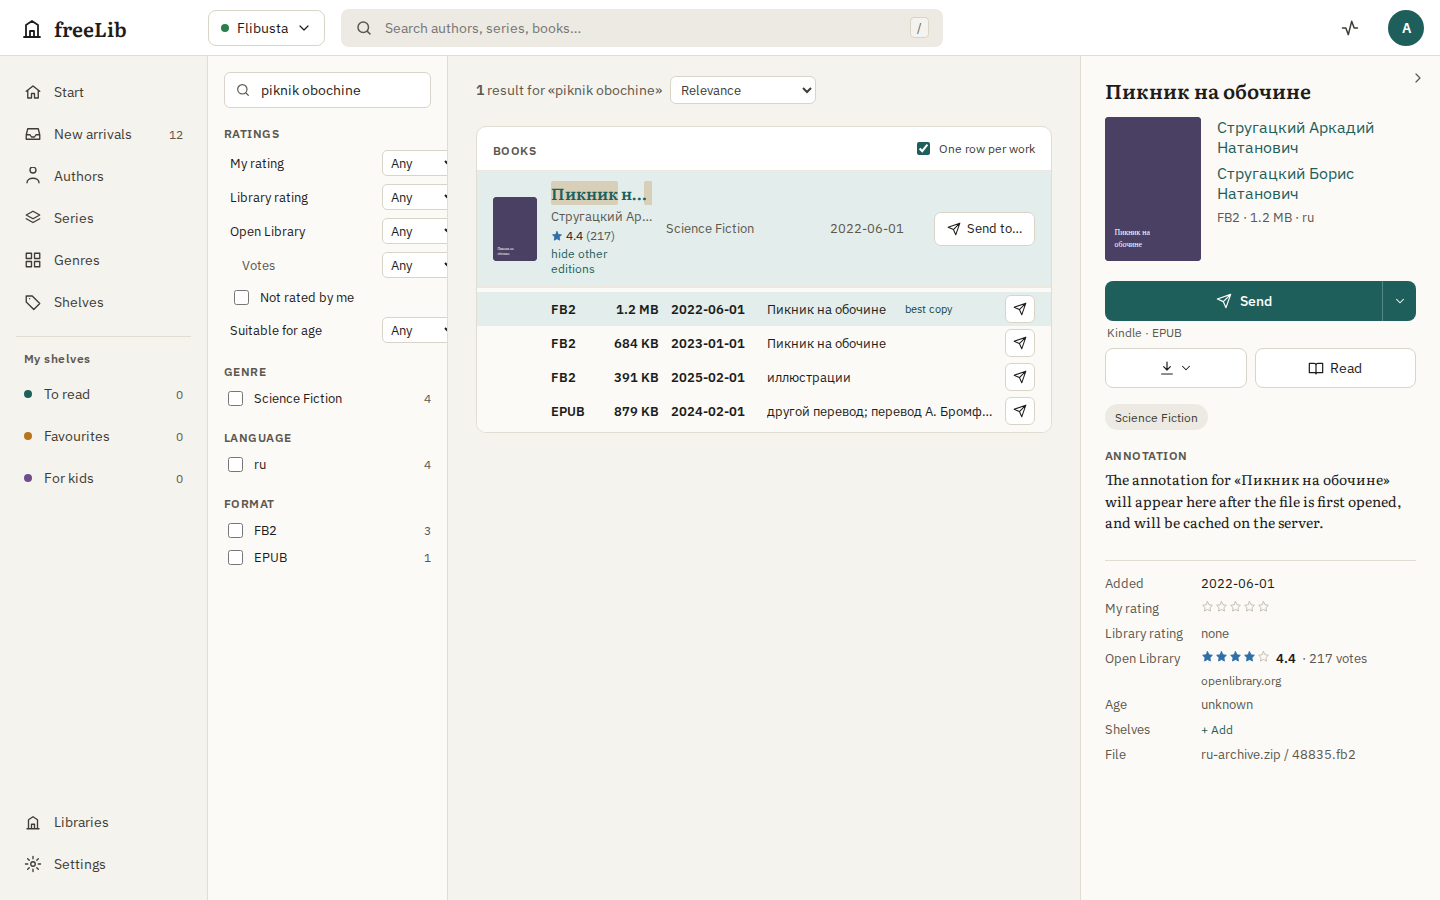
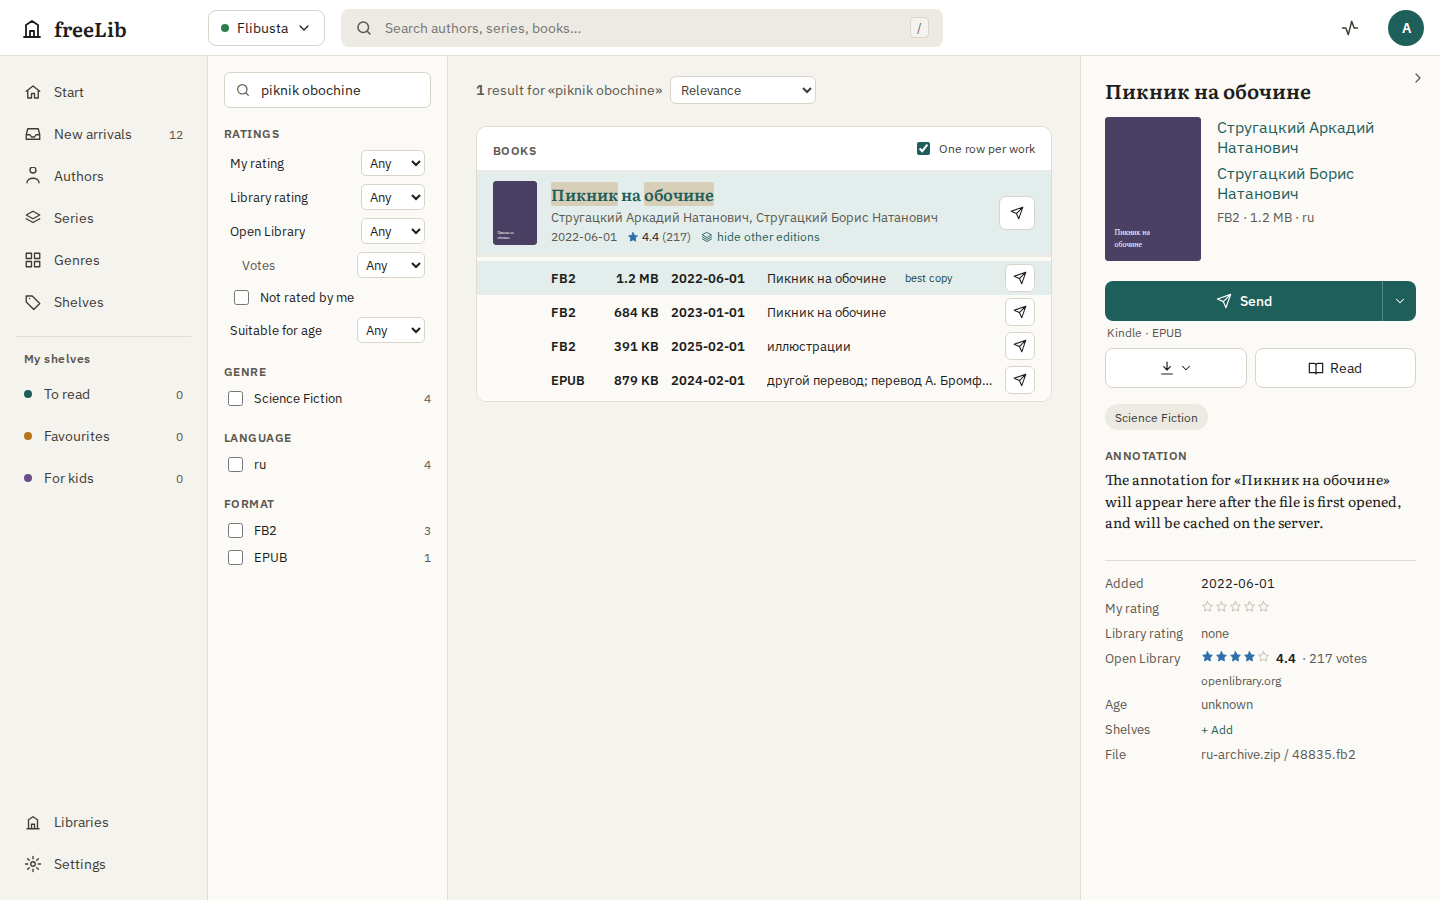
Search: show corrected results, responsive result rows, fitting rating selects
- a correction replaces the results when the query as typed finds < 3
  matches or no author/series that the corrected query finds;
  "Showing results for азимов · Search instead for азимв" (exact=1 skips
  the correction); the typeahead lists the corrected results
- search result rows: title and authors get the space (2 lines),
  genre / date / ratings / editions on one meta line, icon-only send and
  no genre when the results column is narrow (container query)
- rating filter selects fit the facet column
- screenshots regenerated

Claude-Session: https://claude.ai/code/session_01CHpYdZBU1bJ65FXV23e9ED

Changed region(s): [[0.3438, 0.1867, 0.7188, 0.4667], [0.25, 0.1556, 0.3125, 0.3111], [0.25, 0.3422, 0.2812, 0.3733]]

diff --git a/web/src/lib/routes/SearchPage.svelte b/web/src/lib/routes/SearchPage.svelte
@@ -19,7 +19,7 @@
     emptyRatingFilters, ratingFilterCount, ratingParams, type RatingFilters as RatingFiltersT, type RatingSortKey,
   } from '../utils/ratings';
 
-  let { lib, q }: { lib: number; q: string } = $props();
+  let { lib, q, exact = false }: { lib: number; q: string; exact?: boolean } = $props();
 
   let query = $state('');
   let result = $state<SearchResponse | null>(null);
@@ -58,6 +58,7 @@
       lang: [...langFilter].join(',') || undefined,
       ext: [...extFilter].join(',') || undefined,
       group: groupEditions,
+      exact,
       ...ratingParams(ratingFilters, sortKey === 'relevance' ? null : sortKey),
     }).then((r) => { if (!cancelled) result = r; })
       .catch((e) => { if (!cancelled) error = errorText(e); })
@@ -101,24 +102,22 @@
     <CoverThumb {lib} bookId={b.id} title={b.title} />
     <div class="info">
       <a href="/l/{lib}/book/{b.id}" class="title" onclick={(e) => { e.preventDefault(); pick(b); }}><Hl text={b.title} words={hl} /></a>
-      <span class="muted ellipsis"><Hl text={authorsLine(b)} words={hl} />{#if b.series}{' · '}<Hl text={`${b.series.name}${b.serno ? ` #${b.serno}` : ''}`} words={hl} />{/if}</span>
-      {#if b.libRating || b.extRating || b.rating || (b.kidsAge !== null && b.kidsAge !== undefined)}
-        <span class="rates">
-          {#if b.rating}<span class="my" title={t('ratings.myTooltip')}>★ {b.rating}</span>{/if}
-          {#if b.libRating}<span class="lib" title={t('ratings.libTooltip', { n: b.libRating })}>{t('ratings.libShort')} {b.libRating}/5</span>{/if}
-          <ExtRating value={b.extRating} />
-          <KidsBadge age={b.kidsAge} />
-        </span>
-      {/if}
-      {#if b.editions}
-        <button type="button" class="editions" data-testid="editions-toggle" aria-expanded={expanded.has(b.id)} onclick={() => (expanded = toggleSet(expanded, b.id))}>
-          {expanded.has(b.id) ? t('search.hideEditions') : tn('editions.countBest', b.editions.count)}
-        </button>
-      {/if}
+      <span class="muted byline"><Hl text={authorsLine(b)} words={hl} />{#if b.series}{' · '}<Hl text={`${b.series.name}${b.serno ? ` #${b.serno}` : ''}`} words={hl} />{/if}</span>
+      <span class="meta">
+        {#if genreLine(b)}<span class="genre">{genreLine(b)}</span>{/if}
+        <span class="date">{formatDate(b.date, i18nState.lang)}</span>
+        {#if b.rating}<span class="my" title={t('ratings.myTooltip')}>★ {b.rating}</span>{/if}
+        {#if b.libRating}<span class="lib" title={t('ratings.libTooltip', { n: b.libRating })}>{t('ratings.libShort')} {b.libRating}/5</span>{/if}
+        <ExtRating value={b.extRating} />
+        <KidsBadge age={b.kidsAge} />
+        {#if b.editions}
+          <button type="button" class="editions" data-testid="editions-toggle" aria-expanded={expanded.has(b.id)} onclick={() => (expanded = toggleSet(expanded, b.id))}>
+            <Icon name="layers" size={12} />{expanded.has(b.id) ? t('search.hideEditions') : tn('editions.countBest', b.editions.count)}
+          </button>
+        {/if}
+      </span>
     </div>
-    <span class="muted genre">{genreLine(b)}</span>
-    <span class="muted date-col">{formatDate(b.date, i18nState.lang)}</span>
-    <button type="button" class="send-btn" aria-label={t('selection.sendTo')} onclick={() => (send = { ids: [b.id] })}><Icon name="send" size={14} /><span>{t('selection.sendTo')}</span></button>
+    <button type="button" class="send-btn" aria-label={t('selection.sendTo')} title={t('selection.sendTo')} onclick={() => (send = { ids: [b.id] })}><Icon name="send" size={14} /><span>{t('selection.sendTo')}</span></button>
   </div>
 {/snippet}
 
@@ -213,7 +212,7 @@
 
       {#if result.corrected}
         <p class="dym" data-testid="search-corrected">
-          {t('search.correctedTo')} <b>{result.corrected}</b>. {t('search.noneFor')} «{q}».
+          {t('search.correctedTo')} <b>{result.corrected}</b> · {t('search.insteadFor')} <a href="{searchFor(q)}&exact=1" data-link data-testid="search-exact">{q}</a>
         </p>
       {:else if result.didYouMean}
         <p class="dym" data-testid="did-you-mean">
@@ -301,8 +300,12 @@
   .summary { display: flex; align-items: center; gap: 8px; font-size: 14px; color: var(--muted); flex-wrap: wrap; }
   .summary.stale { opacity: .6; }
   .sort-sel select { height: 28px; padding: 0 6px; border: 1px solid var(--border); border-radius: 6px; background: var(--surface); color: var(--muted-2); font: inherit; font-size: 13px; }
-  .rates { display: inline-flex; align-items: center; gap: 8px; font-size: 12px; color: var(--muted); }
-  .rates .my { color: var(--amber); }
+  .meta { display: flex; align-items: center; flex-wrap: wrap; gap: 4px 10px; font-size: 12px; color: var(--muted); }
+  .meta .my { color: var(--amber); }
+  .meta .date { font-variant-numeric: tabular-nums; }
+  .meta .genre { overflow: hidden; text-overflow: ellipsis; white-space: nowrap; max-width: 220px; }
+  .byline { display: -webkit-box; -webkit-line-clamp: 2; line-clamp: 2; -webkit-box-orient: vertical; overflow: hidden; }
+  .facets :global(.rf) { min-width: 0; }
   .chip { display: inline-flex; align-items: center; gap: 6px; height: 26px; padding: 0 10px; border-radius: 13px; background: var(--accent-soft); color: var(--accent-soft-ink); font-size: 12px; border: none; }
   h2 { margin: 0 0 10px; font-size: 12px; font-weight: 600; color: var(--muted); letter-spacing: .04em; display: flex; gap: 10px; align-items: baseline; }
   .cap { font-weight: 400; letter-spacing: 0; }
@@ -314,31 +317,31 @@
   .ellipsis { overflow: hidden; text-overflow: ellipsis; white-space: nowrap; }
   .books-section { background: var(--surface); border: 1px solid var(--line); border-radius: 10px; overflow: hidden; flex-shrink: 0; }
   .books-section h2 { margin: 0; padding: 12px 16px; border-bottom: 1px solid var(--line-soft); }
-  .res-row { display: grid; grid-template-columns: 44px minmax(0,1fr) minmax(0, 150px) 90px auto; align-items: center; gap: 14px; padding: 10px 16px; border-bottom: 1px solid var(--line-soft); }
+  .res-row { display: grid; grid-template-columns: 44px minmax(0,1fr) auto; align-items: center; gap: 14px; padding: 10px 16px; border-bottom: 1px solid var(--line-soft); }
   .res-row.selected { background: var(--accent-soft); }
   .res-row:last-child { border-bottom: none; }
   .info { display: flex; flex-direction: column; gap: 3px; min-width: 0; align-items: flex-start; }
   .info > * { max-width: 100%; }
-  .title { font-family: var(--font-display); font-size: 16px; font-weight: 600; color: var(--ink); text-decoration: none; overflow: hidden; text-overflow: ellipsis; white-space: nowrap; }
+  .title { font-family: var(--font-display); font-size: 16px; font-weight: 600; color: var(--ink); text-decoration: none; overflow: hidden; display: -webkit-box; -webkit-line-clamp: 2; line-clamp: 2; -webkit-box-orient: vertical; overflow-wrap: anywhere; }
   .title:hover { color: var(--accent); }
-  .editions { all: unset; font-size: 12px; color: var(--accent); cursor: pointer; }
+  .editions { all: unset; display: inline-flex; align-items: center; gap: 4px; font-size: 12px; color: var(--accent); cursor: pointer; white-space: nowrap; }
   .dym { margin: 0; font-size: 15px; color: var(--ink); }
   .dym a { font-weight: 600; }
   .group-toggle { margin-left: auto; display: inline-flex; align-items: center; gap: 6px; font-weight: 400; letter-spacing: 0; font-size: 12px; color: var(--muted-2); text-transform: none; }
   .group-toggle input { accent-color: var(--accent); }
   .editions:hover { text-decoration: underline; }
   .editions:focus-visible { outline: 2px solid var(--focus); }
-  .genre { overflow: hidden; text-overflow: ellipsis; white-space: nowrap; }
-  .date-col { font-variant-numeric: tabular-nums; }
   .send-btn { justify-self: end; display: inline-flex; align-items: center; gap: 6px; height: 34px; padding: 0 12px; border-radius: 7px; border: 1px solid var(--border); background: var(--surface); color: var(--ink); font-size: 13px; white-space: nowrap; flex-shrink: 0; }
   .send-btn:hover { background: var(--surface-hover); }
   .send-btn :global(svg) { flex-shrink: 0; }
   .badge { min-width: 16px; height: 16px; padding: 0 4px; border-radius: 8px; background: var(--accent); color: #fff; font-size: 11px; display: inline-flex; align-items: center; justify-content: center; }
 
-  @media (max-width: 1280px) {
-    .res-row { grid-template-columns: 44px minmax(0,1fr) 90px auto; }
-    .res-row .genre { display: none; }
+  /* the results column narrows with the details pane open: icon-only send, no genre */
+  .results { container-type: inline-size; }
+  @container (max-width: 720px) {
+    .send-btn { padding: 0 10px; }
     .send-btn span { display: none; }
+    .meta .genre { display: none; }
   }
   @media (max-width: 900px) {
     .search-page { flex-direction: column; overflow-y: auto; overflow-x: hidden; }
@@ -350,6 +353,5 @@
     .results { padding: 14px 12px 24px; gap: 16px; overflow: visible; }
     .series-grid { grid-template-columns: 1fr; }
     .res-row { grid-template-columns: 40px minmax(0,1fr) auto; gap: 10px; padding: 10px 12px; }
-    .res-row .genre, .res-row .date-col { display: none; }
   }
 </style>

diff --git a/web/src/lib/components/GlobalSearch.svelte b/web/src/lib/components/GlobalSearch.svelte
@@ -33,8 +33,8 @@
   const items = $derived.by<Item[]>(() => {
     if (!result) return [];
     const out: Item[] = [];
-    const fix = result.corrected ?? result.didYouMean;
-    if (fix) out.push({ group: 'fix', href: `/l/${lib}/search?q=${encodeURIComponent(fix)}`, label: fix });
+    // corrected results are listed below; only a mere suggestion gets its own row
+    if (result.didYouMean) out.push({ group: 'fix', href: `/l/${lib}/search?q=${encodeURIComponent(result.didYouMean)}`, label: result.didYouMean });
     for (const a of result.authors.slice(0, 4)) out.push({ group: 'authors', href: `/l/${lib}/authors/${a.id}`, label: a.name, n: String(a.count) });
     for (const s of result.series.slice(0, 3)) out.push({ group: 'series', href: `/l/${lib}/series/${s.id}`, label: s.name, sub: s.authors, n: String(s.count) });
     for (const b of result.books.slice(0, 5)) {
@@ -83,7 +83,7 @@
 
   const groupLabel: Record<string, string> = $derived({
     authors: t('search.authors'), series: t('search.series'), books: t('search.books'),
-    fix: result?.corrected ? t('search.showingFor') : t('search.didYouMeanCaps'),
+    fix: t('search.didYouMeanCaps'),
   });
   const hl = $derived(new Set(result?.highlight ?? []));
 </script>
@@ -110,6 +110,7 @@
   </label>
   {#if open && query.trim().length >= 2 && result}
     <div class="dropdown" id="global-search-list" role="listbox">
+      {#if result.corrected}<div class="group-label corrected" data-testid="typeahead-corrected">{t('search.correctedTo')} <b>{result.corrected}</b></div>{/if}
       {#each items as it, i (it.href)}
         {#if i === 0 || items[i - 1].group !== it.group}<div class="group-label">{groupLabel[it.group]}</div>{/if}
         <a
@@ -134,6 +135,7 @@
 </div>
 
 <style>
+  .corrected { text-transform: none; letter-spacing: 0; }
   .wrap { position: relative; flex-grow: 1; max-width: 640px; }
   .box {
     display: flex; align-items: center; gap: 10px; height: 38px; padding: 0 14px; border-radius: 8px;

diff --git a/web/tests/find.spec.ts b/web/tests/find.spec.ts
@@ -85,18 +85,21 @@ test('search: word forms, transliteration, typo correction and did-you-mean', as
   await expect(page.getByTestId('search-corrected')).toContainText('стругацкий');
   await expect(page.locator('.series-card', { hasText: 'Стругацкий Аркадий' }).first()).toBeVisible();
 
-  // little found → "Did you mean"
+  // little found and no author → the corrected results, with a way back to the query as typed
   await page.goto('/l/1/search?q=азимв');
-  const dym = page.getByTestId('did-you-mean');
-  await expect(dym).toContainText('Did you mean');
-  await dym.getByRole('link', { name: 'азимов' }).click();
-  await expect(page).toHaveURL(/q=%D0%B0%D0%B7%D0%B8%D0%BC%D0%BE%D0%B2/);
+  await expect(page.getByTestId('search-corrected')).toContainText('Showing results for азимов');
   await expect(page.locator('.series-card', { hasText: 'Азимов Айзек' }).locator('mark')).toHaveText('Азимов');
+  await page.getByTestId('search-exact').click();
+  await expect(page).toHaveURL(/exact=1/);
+  await expect(page.getByTestId('search-book')).toHaveCount(1);
+  await expect(page.getByTestId('search-book')).toContainText('Записки на полях');
+  await expect(page.getByTestId('search-corrected')).toHaveCount(0);
 
-  // the typeahead offers the correction too
+  // the typeahead shows the corrected results too
   await page.goto('/l/1/authors');
-  await page.getByRole('combobox').fill('Сругацкий');
-  await expect(page.getByTestId('typeahead-fix')).toHaveText('стругацкий');
+  await page.getByRole('combobox').fill('азимв');
+  await expect(page.getByTestId('typeahead-corrected')).toContainText('азимов');
+  await expect(page.getByRole('option', { name: /Азимов Айзек/ }).first()).toBeVisible();
 });
 
 test('editions: one row per work, expand, pick another, grouping switch', async ({ page }) => {

diff --git a/web/src/lib/router.svelte.ts b/web/src/lib/router.svelte.ts
@@ -38,7 +38,7 @@ export type Route =
   | { name: 'genres'; lib: number; id: number | null }
   | { name: 'shelvesIndex'; lib: number }
   | { name: 'shelf'; lib: number; id: number }
-  | { name: 'search'; lib: number; q: string }
+  | { name: 'search'; lib: number; q: string; exact: boolean }
   | { name: 'book'; lib: number; id: number }
   | { name: 'read'; lib: number; id: number }
   | { name: 'libraries' }
@@ -63,7 +63,7 @@ export function parseRoute(path: string, search: string): Route {
     if (rest === 'genres') return { name: 'genres', lib, id: segs[3] ? Number(segs[3]) : null };
     if (rest === 'shelves' && segs[3]) return { name: 'shelf', lib, id: Number(segs[3]) };
     if (rest === 'shelves') return { name: 'shelvesIndex', lib };
-    if (rest === 'search') return { name: 'search', lib, q: q.get('q') ?? '' };
+    if (rest === 'search') return { name: 'search', lib, q: q.get('q') ?? '', exact: q.get('exact') === '1' };
     if (rest === 'book' && segs[3]) return { name: 'book', lib, id: Number(segs[3]) };
     if (rest === 'read' && segs[3]) return { name: 'read', lib, id: Number(segs[3]) };
   }

diff --git a/web/mock/server.ts b/web/mock/server.ts
@@ -519,11 +519,14 @@ export function installMockApi(server: Connect.Server) {
         let r = run(q0);
         let corrected: string | null = null, didYouMean: string | null = null;
         const found = (x: typeof r) => x.authors.length + x.series.length + x.books.length;
-        if (found(r) < 3) {
+        const names = (x: typeof r) => x.authors.length + x.series.length;
+        const wantsNames = kind !== 'books';
+        if (url.searchParams.get('exact') !== '1' && (found(r) < 3 || (wantsNames && names(r) === 0))) {
           const fixed = correct(lib, q0);
           if (fixed) {
             const alt = run(fixed);
-            if (found(r) === 0 && found(alt) > 0) { r = alt; corrected = fixed; }
+            // like the server: the corrected results replace little or no-author results
+            if ((found(r) < 3 && found(alt) > found(r)) || (wantsNames && names(r) === 0 && names(alt) > 0)) { r = alt; corrected = fixed; }
             else if (found(alt) > found(r)) didYouMean = fixed;
           }
         }

diff --git a/web/src/lib/components/RatingFilters.svelte b/web/src/lib/components/RatingFilters.svelte
@@ -57,11 +57,12 @@
 <style>
   .rf { display: flex; flex-direction: column; gap: 2px; min-width: 240px; }
   .line span, .check { white-space: nowrap; }
+  .line span { overflow: hidden; text-overflow: ellipsis; min-width: 0; }
   .line { display: flex; align-items: center; justify-content: space-between; gap: 10px; font-size: 13px; padding: 3px 6px; border-radius: 4px; }
   .line.sub { padding-left: 18px; color: var(--muted); }
   .line select {
     height: 26px; padding: 0 4px; border: 1px solid var(--border); border-radius: 5px; background: var(--surface);
-    color: var(--ink); font: inherit; font-size: 12.5px; min-width: 76px;
+    color: var(--ink); font: inherit; font-size: 12.5px; min-width: 64px; max-width: 96px; flex-shrink: 0;
   }
   .check { display: flex; align-items: center; gap: 8px; font-size: 13px; padding: 4px 6px; border-radius: 4px; }
   .check input { width: 15px; height: 15px; accent-color: var(--accent); }

diff --git a/web/src/lib/api/client.ts b/web/src/lib/api/client.ts
@@ -137,9 +137,10 @@ export const api = {
     `${BASE}/libraries/${lib}/books/${id}/file${qs({ format, device: opts?.device, inline: opts?.inline ? 1 : undefined })}`,
   search: (lib: number, params: {
     q: string; kind?: 'all' | 'books' | 'authors' | 'series'; genre?: string; lang?: string;
-    ext?: string; from?: string; to?: string; limit?: number; group?: boolean;
+    ext?: string; from?: string; to?: string; limit?: number; group?: boolean; exact?: boolean;
   } & RatingParams) => request<SearchResponse>(`/libraries/${lib}/search${qs({
     ...params, unratedByMe: params.unratedByMe ? 1 : undefined, group: params.group ? 1 : undefined,
+    exact: params.exact ? 1 : undefined,
   })}`),
   languages: (lib: number) => request<[string, number][]>(`/languages${qs({ lib })}`),
   setRating: (lib: number, id: number, rating: number) =>

diff --git a/web/src/App.svelte b/web/src/App.svelte
@@ -129,7 +129,7 @@
     {:else if route.name === 'shelf'}
       <LibraryGate lib={route.lib}><ShelfPage lib={route.lib} id={route.id} /></LibraryGate>
     {:else if route.name === 'search'}
-      <LibraryGate lib={route.lib}><SearchPage lib={route.lib} q={route.q} /></LibraryGate>
+      <LibraryGate lib={route.lib}><SearchPage lib={route.lib} q={route.q} exact={route.exact} /></LibraryGate>
     {:else if route.name === 'book'}
       <LibraryGate lib={route.lib}><BookPhonePage lib={route.lib} id={route.id} /></LibraryGate>
     {:else if route.name === 'read'}

diff --git a/web/tests/screenshots.spec.ts b/web/tests/screenshots.spec.ts
@@ -145,7 +145,7 @@ for (const scheme of ['light', 'dark'] as const) {
 
       test('search with did-you-mean', async ({ page }) => {
         await page.goto('/l/1/search?q=азимв');
-        await expect(page.getByTestId('did-you-mean')).toBeVisible();
+        await expect(page.getByTestId('search-corrected')).toBeVisible();
         await page.waitForTimeout(400);
         await page.screenshot({ path: `${DIR}/find-didyoumean-${scheme}-${size}.png` });
       });

diff --git a/server/crates/catalog/src/search.rs b/server/crates/catalog/src/search.rs
@@ -49,6 +49,8 @@ pub struct SearchQuery {
     pub rating: crate::rank::RatingQuery,
     /// One row per work (editions grouped, see [`crate::works`]); `total` then counts works.
     pub group: bool,
+    /// Search the query exactly as typed: no typo correction ("Search instead for …").
+    pub exact: bool,
 }
 
 pub(crate) const FLAG_EXISTS: u8 = 1;
@@ -521,10 +523,11 @@ impl Catalog {
     /// [`search`](Self::search) with the user's and external ratings for `sq.rating`.
     ///
     /// Words match as prefixes, word forms (Snowball stems) and transliterations (Latin keys);
-    /// results are ranked by tier (see [`Plan`]), then bm25. When the query finds almost
-    /// nothing, words unknown to the catalog are corrected by edit distance: with no result at
-    /// all the corrected query is searched instead (`corrected`), else it is offered
-    /// (`did_you_mean`).
+    /// results are ranked by tier (see [`Plan`]), then bm25. When the query finds fewer than 3
+    /// matches or no author/series, words unknown to the catalog are corrected by edit distance:
+    /// when the corrected query finds more (or finds authors/series the query did not) its
+    /// results are returned (`corrected`), else it is offered (`did_you_mean`). `exact` skips
+    /// the correction.
     pub fn search_rated(
         &self,
         sq: &SearchQuery,
@@ -542,12 +545,19 @@ impl Catalog {
         let mut used = p.tokens.clone();
         let found = |r: &SearchResult| r.total + r.authors.len() as i64 + r.series.len() as i64;
         let n = found(&res);
-        if n < FEW_RESULTS
+        let names = |r: &SearchResult| r.authors.len() + r.series.len();
+        let wants_names = sq.kind != SearchKind::Books;
+        if !sq.exact
+            && (n < FEW_RESULTS || (wants_names && names(&res) == 0))
             && let Some(fixed) = self.correct(&sq.q)?
             && let Some(fp) = plan(&fixed)
         {
             let alt = self.search_plan(&conn, &fp, sq, src)?;
-            if n == 0 && found(&alt) > 0 {
+            // the corrected query is shown instead when the query as typed found little, or no
+            // author/series where the corrected one finds some; else it is only offered
+            if (n < FEW_RESULTS && found(&alt) > n)
+                || (wants_names && names(&res) == 0 && names(&alt) > 0)
+            {
                 res = alt;
                 res.corrected = Some(fixed);
                 used = fp.tokens;

diff --git a/server/crates/import/tests/find.rs b/server/crates/import/tests/find.rs
@@ -301,11 +301,24 @@ fn word_forms_translit_typos_and_ranking() {
     let r = search(&cat, "пикнк", false);
     assert_eq!(r.corrected.as_deref(), Some("пикник"));
     assert!(ids(&r).contains(&1));
-    // little found (a keyword) → a suggestion only
+    // little found (one book by a keyword) and no author → the corrected results are shown
     let r = search(&cat, "азимв", false);
+    assert_eq!(r.corrected.as_deref(), Some("азимов"));
+    assert_eq!(r.authors[0].name, "Азимов Айзек");
+    assert!(ids(&r).contains(&4));
+    // … unless asked for the query as typed
+    let r = cat
+        .search(&SearchQuery {
+            q: "азимв".into(),
+            exact: true,
+            ..Default::default()
+        })
+        .unwrap();
     assert_eq!(ids(&r), [16]);
-    assert!(r.corrected.is_none());
-    assert_eq!(r.did_you_mean.as_deref(), Some("азимов"));
+    assert!(r.corrected.is_none() && r.did_you_mean.is_none());
+    // enough found, authors too: nothing corrected
+    let r = search(&cat, "книга", false);
+    assert!(r.corrected.is_none() && r.did_you_mean.is_none());
     // stems are highlighted as whole words
     let r = search(&cat, "книгу", false);
     assert!(

diff --git a/server/crates/server/src/api/browse.rs b/server/crates/server/src/api/browse.rs
@@ -526,6 +526,7 @@ pub struct SearchParams {
     limit: Option<usize>,
     deleted: Option<String>,
     group: Option<String>,
+    exact: Option<String>,
 }
 
 fn opt_date(s: &Option<String>, name: &str) -> ApiResult<Option<String>> {
@@ -594,6 +595,7 @@ pub async fn search(
         limit: p.limit.unwrap_or(200).clamp(1, 1000),
         rating: rp.query()?,
         group: truthy(&p.group),
+        exact: truthy(&p.exact),
     };
     let st2 = st.clone();
     let v = st
